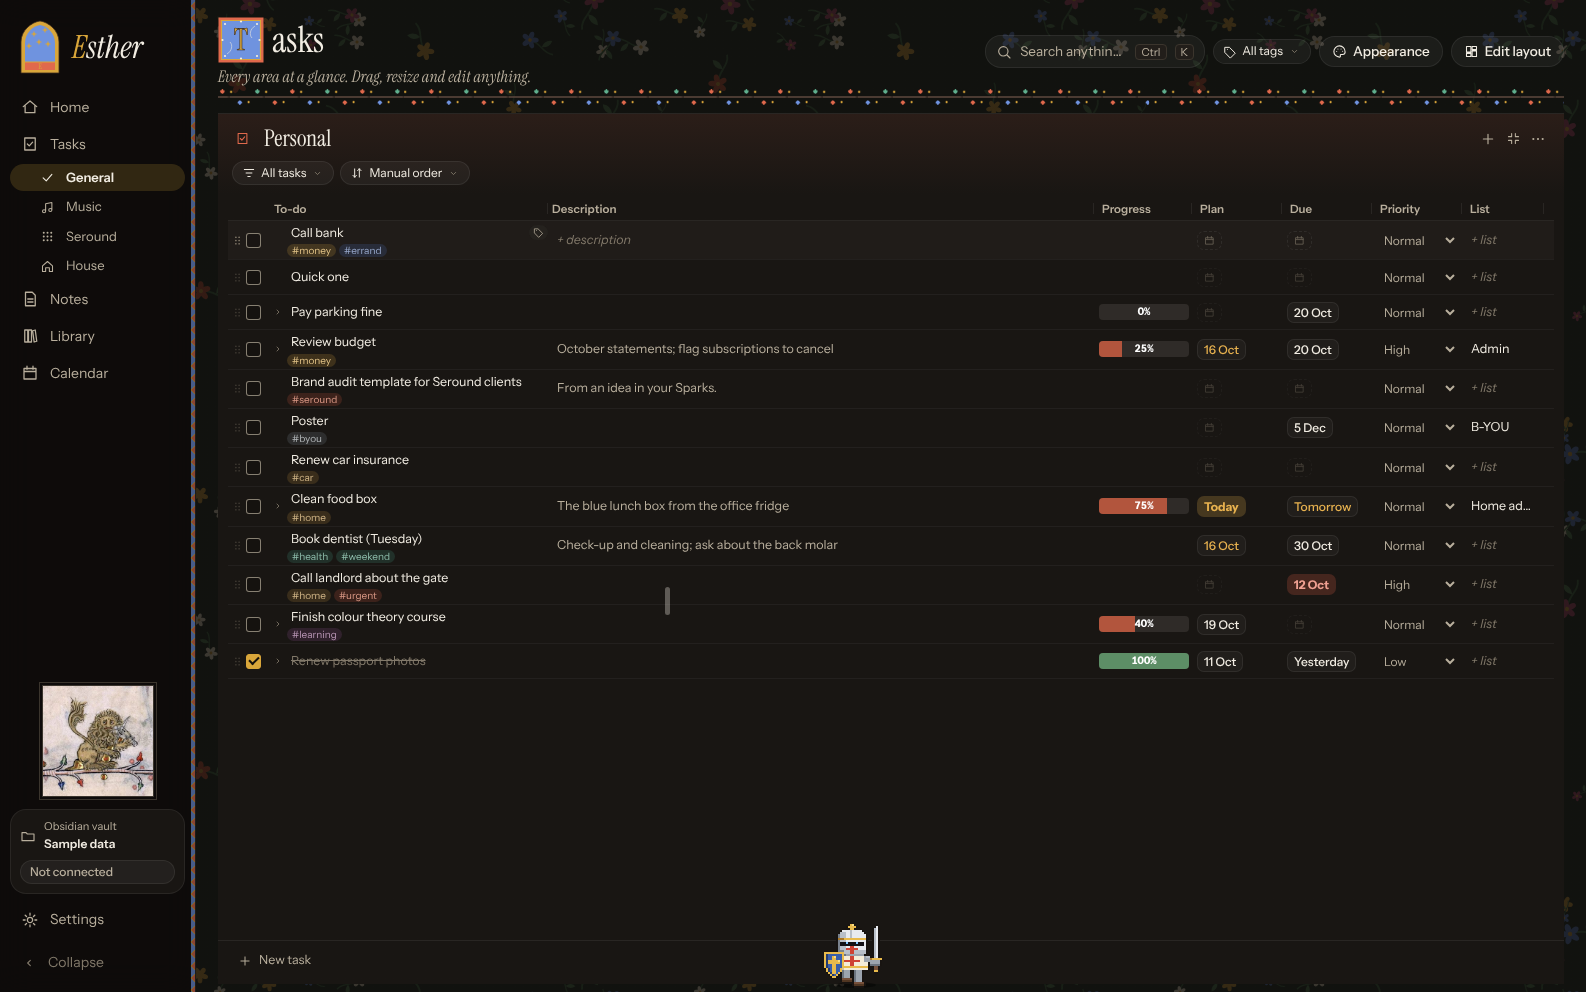
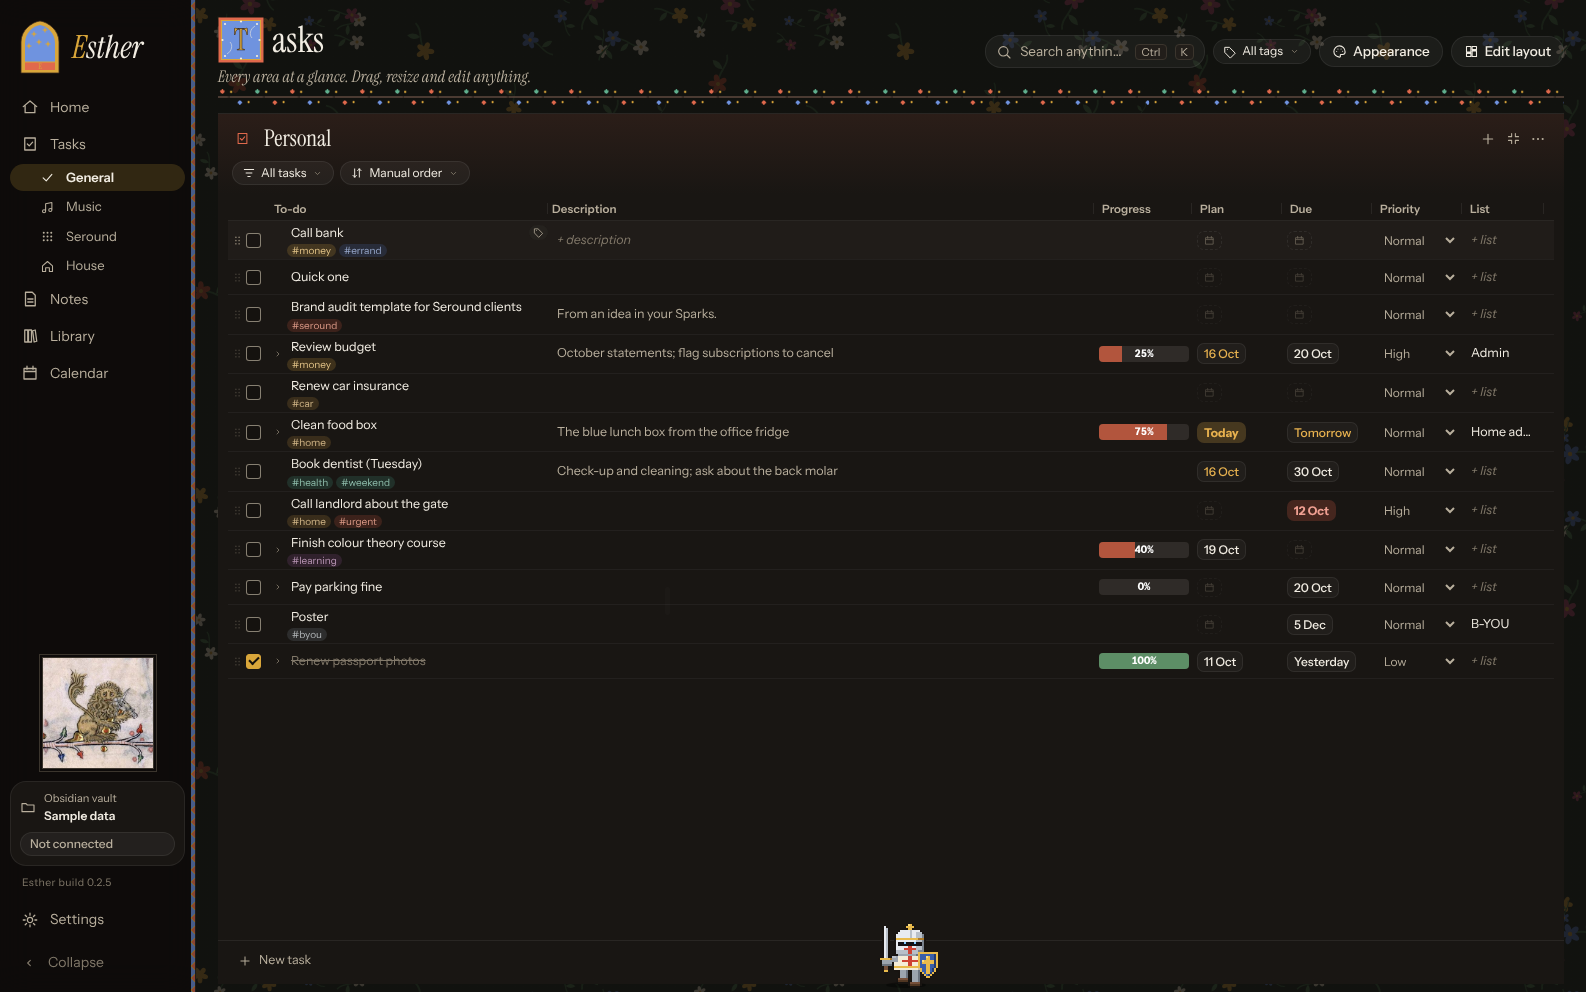
Esther build 0.2.6: the bar knows your music; dates fall into place
- Naming an artist or project puts the work on that project's stage (named or current);
  a stage outside your scope on a job is brought in, and the preview says so
- "friday this week", "this week", "this weekend" read as dates and leave the task name
- New dated tasks fall into place by date; panels gain a Smart order

Claude-Session: https://claude.ai/code/session_016WKLQPuGqaCrfQHNoqNZZi

diff --git a/frankk-app/src/lib/parse.ts b/frankk-app/src/lib/parse.ts
@@ -20,7 +20,21 @@ export interface Parsed {
   priority?: Priority;
   journal: boolean;
   explicit: boolean;
+  /** Music work that belongs to a project: added as an item on that project's stage. */
+  music?: { projectId: string; stageId: string; stage: string; artist: string; title: string; addsScope: boolean };
 }
+
+/** What the parser needs to know about your music projects. */
+export interface ProjectRef { id: string; artist: string; title: string; stages: { id: string; name: string; inScope: boolean; done: boolean; track?: string; items: { done: boolean }[] }[] }
+
+const MUSIC_CUE = /\b(?:music|studio|surftape|song|single|ep|album|beat|vocals?|mix(?:ing)?|master(?:ing)?|record(?:ing)?|produc(?:e|tion|ing)|lyrics?|track|session|demo)\b/i;
+// Which stage a word points at.
+const STAGE_WORDS: [RegExp, string][] = [
+  [/\b(?:record(?:ing)?|vocals?|tracking)\b/i, 'record'], [/\bmaster(?:ing)?\b/i, 'master'], [/\bmix(?:ing)?\b/i, 'mix'],
+  [/\b(?:produc(?:e|tion|ing)|beat|arrange(?:ment)?)\b/i, 'produc'], [/\blyrics?\b|\bwrit(?:e|ing)\b/i, 'lyric'],
+  [/\b(?:cover|artwork|art)\b/i, 'art'], [/\bconcept\b/i, 'concept'], [/\b(?:market(?:ing)?|promo)\b/i, 'market'], [/\b(?:mv|music video)\b/i, 'mv'],
+];
+const COMMON_WORDS = new Set(['just', 'me', 'you', 'will', 'may', 'june', 'art', 'sun']);
 
 const MONTHS = ['jan', 'feb', 'mar', 'apr', 'may', 'jun', 'jul', 'aug', 'sep', 'oct', 'nov', 'dec'];
 const MONTH_RE = '(jan(?:uary)?|feb(?:ruary)?|mar(?:ch)?|apr(?:il)?|may|june?|july?|aug(?:ust)?|sep(?:t(?:ember)?)?|oct(?:ober)?|nov(?:ember)?|dec(?:ember)?)';
@@ -53,7 +67,12 @@ export function findDate(text: string, today: ISODate): { date: ISODate; match: 
     [/\bin (\d+) weeks?\b/, (m) => addDays(today, 7 * +m[1])],
     [/\bnext week\b/, () => { const dow = (parseISO(today).getDay() + 6) % 7; return addDays(today, 7 - dow); }],
     [/\bend of (?:the )?month\b/, () => { const d = parseISO(today); return toISO(new Date(d.getFullYear(), d.getMonth() + 1, 0)); }],
-    [new RegExp(`\\b(?:next\\s+|this\\s+)?${DAY_RE}\\b`), (m) => {
+    [/\b(?:(?:by\s+)?(?:the\s+)?end of (?:the |this )?week|this week|this weekend)\b/, (m) => {
+      // "this week" means by Sunday; "this weekend" means Saturday.
+      const dow = parseISO(today).getDay();
+      return /weekend/.test(m[0]) ? addDays(today, (6 - dow + 7) % 7) : addDays(today, (7 - dow) % 7);
+    }],
+    [new RegExp(`\\b(?:next\\s+|this\\s+|on\\s+)?${DAY_RE}(?:\\s+(?:of\\s+)?this\\s+week)?\\b`), (m) => {
       // The coming one: "friday" on a Wednesday is in two days; on a Friday it's a week away.
       const want = DAYS.findIndex((d) => d.startsWith(m[1].slice(0, 3)));
       const n = (want - parseISO(today).getDay() + 7) % 7 || 7;
@@ -73,7 +92,7 @@ export function findDate(text: string, today: ISODate): { date: ISODate; match: 
 
 const esc = (s: string) => s.replace(/[.*+?^${}()|[\]\\]/g, '\\$&');
 
-export function parseCommand(input: string, today: ISODate, brands: string[] = []): Parsed {
+export function parseCommand(input: string, today: ISODate, brands: string[] = [], projects: ProjectRef[] = []): Parsed {
   const d = detectKind(input);
   let text = d.text;
   const kind = d.kind;
@@ -96,6 +115,31 @@ export function parseCommand(input: string, today: ISODate, brands: string[] = [
     if (cut(/\b(?:urgent(?:ly)?|asap|high priority|important)\b/i)) out.priority = 'high';
     else if (cut(/\b(?:low priority|someday|whenever)\b/i)) out.priority = 'low';
 
+    // Music: a project named by its artist or title (a name that is also an everyday word, like "Just", only counts
+    // when the sentence is clearly about music). The work becomes an item on the stage it names, else the current one.
+    const cue = MUSIC_CUE.test(text);
+    const named = projects.map((p) => {
+      for (const name of [p.artist, p.title]) {
+        if (!name) continue;
+        const re = new RegExp(`\\b${esc(name)}(?:'s)?\\b`, 'i');
+        const exact = new RegExp(`\\b${esc(name)}(?:'s)?\\b`);
+        if (re.test(text) && (!COMMON_WORDS.has(name.toLowerCase()) || cue || exact.test(text.replace(/^\s*\S/, '')))) return { p, name };
+      }
+      return null;
+    }).find(Boolean);
+    if (kind === 'task' && named) {
+      const st = named.p.stages.filter((x) => x.inScope);
+      const word = STAGE_WORDS.find(([re]) => re.test(text))?.[1];
+      // A named stage wins even when it's outside your scope on that job: saying you'll do it brings it in.
+      const stage = (word && named.p.stages.find((x) => x.name.toLowerCase().includes(word)))
+        || st.find((x) => x.track !== 'side' && !x.done && !(x.items.length && x.items.every((i) => i.done))) || st[0];
+      if (stage) {
+        out.music = { projectId: named.p.id, stageId: stage.id, stage: stage.name, artist: named.p.artist, title: named.p.title, addsScope: !stage.inScope };
+        text = text.replace(new RegExp(`\\b(?:for|with|of)?\\s*${esc(named.name)}(?:'s)?\\b`, 'i'), ' ');
+      }
+    }
+    if (cut(/\b(?:in|for|on)\s+(?:the\s+)?music\b|^\s*music\s*:?\s*/i) && !out.music) out.tags.push('music');
+
     // Where it belongs. B-YOU has no panel of its own yet, so its tasks go to General in a "B-YOU" list.
     if (cut(/\b(?:for|at|in)?\s*(?:b[\s-]?you|byou)\b(?:\s+office)?/i)) { out.list = 'B-YOU'; out.tags.push('byou'); }
     else {
@@ -112,11 +156,12 @@ export function parseCommand(input: string, today: ISODate, brands: string[] = [
       const before = text.slice(0, text.toLowerCase().indexOf(dt.match.toLowerCase()));
       const dueWord = /\b(?:due(?:\s+date)?|by|deadline|before|until)\s*(?:is|at|on|of|:)?\s*$/i;
       if (dueWord.test(before)) { out.due = dt.date; text = before.replace(dueWord, ' ') + text.slice(before.length + dt.match.length); }
-      else { out.plan = dt.date; text = text.replace(dt.match, ' ').replace(/\b(?:on|at|for)\s+$/i, ' '); }
+      else { out.plan = dt.date; text = text.replace(new RegExp(`\\b(?:on|at|for|this)?\\s*${esc(dt.match)}`, 'i'), ' '); }
     }
     text = text.replace(/\b(?:due(?:\s+date)?|deadline)\b\s*(?:is|at|on)?/gi, ' ');
     // Leading verbs that only introduce the work: "doing poster" → "Poster".
-    text = text.replace(/^\s*(?:doing|do|to|working on|work on|the)\s+/i, '');
+    text = text.replace(/^\s*(?:(?:doing|do|to|working on|work on|the)\s+)+/i, '');
+    text = text.replace(/\b(?:on|at|by)\s*$/i, '');
   }
 
   const title = text.replace(/\s+/g, ' ').replace(/\s+([,.;:])/g, '$1').replace(/^[\s,.;:-]+|[\s,.;:-]+$/g, '').trim();

diff --git a/frankk-app/src/components/CommandBar.tsx b/frankk-app/src/components/CommandBar.tsx
@@ -34,14 +34,17 @@ export function CommandBar() {
   const [chosen, setChosen] = useState<Kind | null>(null);
   const input = useRef<HTMLInputElement>(null);
   // Reads the sentence as you type; a kind picked on the pill wins unless the line starts with a prefix.
-  const p = parseCommand(text, today, data.brands);
+  const p = parseCommand(text, today, data.brands, data.projects);
   const kind = p.explicit ? p.kind : chosen ?? 'task';
   const info = KINDS.find((k) => k.id === kind)!;
 
   const AREA: Record<string, string> = { general: 'General', seround: 'Seround', house: 'House' };
   const where = p.list ? p.list : p.area === 'seround' ? `Seround · ${p.brand?.split(' ')[0] ?? ''}` : AREA[p.area];
   /** What Enter will do, shown under the bar before you press it. */
-  const preview: string[] = !text.trim() || ai ? [] : kind === 'task'
+  const m = kind === 'task' ? p.music : undefined;
+  const preview: string[] = !text.trim() || ai ? [] : m
+    ? [`“${p.title}”`, `${m.artist} · ${m.title}`, `${m.stage} stage`, m.addsScope ? `adds ${m.stage} to your scope` : '', p.due ?? p.plan ? `${p.due ? 'due' : 'on'} ${relLabel((p.due ?? p.plan)!, today)}` : '', '+ today’s journal'].filter(Boolean)
+    : kind === 'task'
     ? [`“${p.title}”`, where, p.due ? `due ${relLabel(p.due, today)}` : '', p.plan ? `on ${relLabel(p.plan, today)}` : '', p.priority === 'high' ? 'urgent' : p.priority === 'low' ? 'low priority' : '', p.tags.length ? p.tags.map((t) => `#${t}`).join(' ') : '', '+ today’s journal'].filter(Boolean)
     : [`“${p.title}”`, kind === 'idea' ? 'Ideas board' : 'today’s journal'];
 
@@ -54,7 +57,11 @@ export function CommandBar() {
       setText(''); setAi(false);
       return;
     }
-    if (kind === 'task') {
+    if (m) {
+      if (m.addsScope) dispatch({ type: 'stage/patch', projectId: m.projectId, stageId: m.stageId, patch: { inScope: true } });
+      dispatch({ type: 'item/add', projectId: m.projectId, stageId: m.stageId, text: body, date: p.due ?? p.plan });
+      journal('task', `${body} (${m.artist} · ${m.stage})${p.due ?? p.plan ? `, ${p.due ?? p.plan}` : ''}`);
+    } else if (kind === 'task') {
       dispatch({ type: 'task/add', title: body, area: p.area, extra: { tags: p.tags, mode: 'simple', due: p.due, plan: p.plan, priority: p.priority ?? 'normal', list: p.list, ...(p.area === 'seround' ? { brand: p.brand ?? data.brands[0] } : {}) } });
       journal('task', `${body}${p.list ? ` (${p.list})` : ''}${p.due ? `, due ${p.due}` : ''}`);
     } else if (kind === 'idea') {
@@ -62,7 +69,7 @@ export function CommandBar() {
       dispatch({ type: 'entry/add', entry: { id: newId('e'), typeId: 'idea', title: body, props: { status: 'Spark', captured: today }, tags: p.tags, created: now, updated: now, path: `Ideas/${body}.md` } });
       journal('idea', body);
     } else journal(kind, body);
-    say(kind === 'task' ? `Task added: ${preview.join(' · ')}.` : `Kept as ${info.label.toLowerCase()}${kind === 'idea' ? ' on your Ideas board' : ' in today’s journal'}.`, true);
+    say(m ? `Added to ${m.artist}’s ${m.stage} stage: ${preview.join(' · ')}.` : kind === 'task' ? `Task added: ${preview.join(' · ')}.` : `Kept as ${info.label.toLowerCase()}${kind === 'idea' ? ' on your Ideas board' : ' in today’s journal'}.`, true);
     setText(''); setChosen(null);
   };
 

diff --git a/frankk-app/src/data/reducer.ts b/frankk-app/src/data/reducer.ts
@@ -1,3 +1,4 @@
+import type { ISODate } from '../lib/dates';
 import { newId } from './fixtures';
 import { uniqueNotePath } from '../lib/obsidian';
 import { PIGMENTS, RELEASE_STEPS, type AppData, type MusicProject, type Stage, type StageItem, type Task } from './types';
@@ -39,7 +40,7 @@ export type Action =
   | { type: 'stage/patch'; projectId: string; stageId: string; patch: Partial<Stage> }
   | { type: 'stage/move'; projectId: string; stageId: string; dir: -1 | 1 }
   | { type: 'stage/add'; projectId: string; name: string; track?: 'main' | 'side' }
-  | { type: 'item/add'; projectId: string; stageId: string; text: string }
+  | { type: 'item/add'; projectId: string; stageId: string; text: string; date?: ISODate }
   | { type: 'item/patch'; projectId: string; stageId: string; itemId: string; patch: Partial<StageItem> }
   | { type: 'type/add'; def: TypeDef }
   | { type: 'type/update'; id: string; patch: Partial<Pick<TypeDef, 'name' | 'plural' | 'icon' | 'color' | 'folder'>> }
@@ -109,10 +110,16 @@ export function reducer(state: AppData, a: Action): AppData {
       };
       task.tags = [...new Set(task.tags.map(tagKey).filter(Boolean))];
       state = ensureTags(state, task.tags);
-      // New tasks go to the top of their area's manual order.
+      // A new task with a date falls into place among its area's open dated tasks: just before the first one that's
+      // later, or just after the last one. Undated tasks don't count. One without a date goes to the top, as before.
+      const when = (t: Task) => t.due ?? t.plan;
+      const mine = when(task);
       const firstOfArea = state.tasks.findIndex((t) => t.area === task.area);
+      const dated = state.tasks.map((t, i) => ({ t, i })).filter(({ t }) => t.area === task.area && !t.done && when(t));
+      const later = dated.find(({ t }) => when(t)! > mine!);
       const tasks = [...state.tasks];
-      tasks.splice(firstOfArea < 0 ? tasks.length : firstOfArea, 0, task);
+      const at = !mine || !dated.length ? firstOfArea : later ? later.i : dated[dated.length - 1].i + 1;
+      tasks.splice(at < 0 ? tasks.length : at, 0, task);
       return { ...state, tasks };
     }
     case 'task/update':
@@ -388,7 +395,7 @@ export function reducer(state: AppData, a: Action): AppData {
     case 'item/add': {
       const text = a.text.trim();
       if (!text) return state;
-      return mapStage(state, a.projectId, a.stageId, (st) => ({ ...st, done: false, items: [...st.items, { id: newId('it'), text, done: false }] }));
+      return mapStage(state, a.projectId, a.stageId, (st) => ({ ...st, done: false, items: [...st.items, { id: newId('it'), text, done: false, ...(a.date ? { date: a.date } : {}) }] }));
     }
     case 'item/patch':
       return mapStage(state, a.projectId, a.stageId, (st) => ({ ...st, items: st.items.map((i) => (i.id === a.itemId ? { ...i, ...a.patch } : i)) }));

diff --git a/frankk-app/src/lib/tasks.ts b/frankk-app/src/lib/tasks.ts
@@ -2,14 +2,14 @@ import { diffDays, type ISODate } from './dates';
 import type { Task } from '../data/types';
 
 export type Filter = 'all' | 'open' | 'today' | 'overdue' | 'done';
-export type SortKey = 'manual' | 'due' | 'plan' | 'title' | 'priority' | 'progress' | 'list' | 'workstream';
+export type SortKey = 'manual' | 'smart' | 'due' | 'plan' | 'title' | 'priority' | 'progress' | 'list' | 'workstream';
 
 export const FILTERS: { id: Filter; label: string }[] = [
   { id: 'all', label: 'All tasks' }, { id: 'open', label: 'Open' }, { id: 'today', label: 'Today' },
   { id: 'overdue', label: 'Overdue' }, { id: 'done', label: 'Completed' },
 ];
 export const SORTS: { id: SortKey; label: string }[] = [
-  { id: 'manual', label: 'Manual order' }, { id: 'due', label: 'Due date' }, { id: 'plan', label: 'Task date' },
+  { id: 'manual', label: 'Manual order' }, { id: 'smart', label: 'Smart: late, then soonest' }, { id: 'due', label: 'Due date' }, { id: 'plan', label: 'Task date' },
   { id: 'title', label: 'Title' }, { id: 'priority', label: 'Priority' }, { id: 'progress', label: 'Progress' },
 ];
 
@@ -36,6 +36,11 @@ const progressOf = (t: Task) => (t.mode === 'simple' || !t.steps.length ? (t.don
 /** Sort tasks. Completed tasks always stay at the bottom; empty values sort last in either direction. */
 export function applySort(tasks: Task[], key: SortKey, dir: SortDir = 'asc'): Task[] {
   if (key === 'manual') return tasks;
+  // Smart: late first, then by the nearest date (deadline, else task date), high priority first; undated last.
+  if (key === 'smart') {
+    const when = (t: Task) => t.due ?? t.plan ?? '9999-99-99';
+    return [...tasks].sort((a, b) => Number(a.done) - Number(b.done) || when(a).localeCompare(when(b)) || PRIO[a.priority] - PRIO[b.priority]);
+  }
   const val = (t: Task): string | number | undefined => {
     switch (key) {
       case 'due': return t.due; case 'plan': return t.plan; case 'title': return t.title.toLowerCase();

diff --git a/frankk-app/src/home.test.ts b/frankk-app/src/home.test.ts
@@ -99,3 +99,28 @@ describe('reading a sentence in the bar', () => {
     expect(parseCommand('j: quiet morning', TODAY)).toMatchObject({ kind: 'journal', title: 'quiet morning' });
   });
 });
+
+describe('music in the bar, and placing new tasks', () => {
+  const projects = () => buildFixtures(TODAY).projects;
+  it('"record just vocal" is an item on Just’s Record stage, dated Friday, with no "this week" left over', () => {
+    const p = parseCommand('In music to record just vocal on friday this week', TODAY, [], projects());
+    const just = projects().find((x) => x.artist === 'Just')!;
+    expect(p.music?.projectId).toBe(just.id);
+    expect(p.music?.stage.toLowerCase()).toContain('record');
+    expect(p.music?.addsScope).toBe(true); // Record was outside your producer scope on Just's job
+    expect(p.plan).toBe('2026-10-16');
+    expect(p.title).toBe('Record vocal');
+  });
+  it('"just" as an ordinary word does not pick the artist', () => {
+    expect(parseCommand('just call the bank tomorrow', TODAY, [], projects()).music).toBeUndefined();
+  });
+  it('music with no project becomes a task tagged #music', () => {
+    const p = parseCommand('in music to sort sample folders', TODAY, [], projects());
+    expect(p.music).toBeUndefined();
+    expect(p.tags).toContain('music');
+    expect(p.title).toBe('Sort sample folders');
+  });
+  it('"this week" alone means by Sunday', () => {
+    expect(parseCommand('renew passport this week', TODAY).plan ?? parseCommand('renew passport this week', TODAY).due).toBe('2026-10-18');
+  });
+});

diff --git a/frankk-app/README.md b/frankk-app/README.md
@@ -1,4 +1,4 @@
-# Esther — build 0.2.5 (prototype)
+# Esther — build 0.2.6 (prototype)
 
 An interactive, **fixture-only** prototype of Esther, the life control panel (React + TypeScript + Vite).
 It never reads or writes your Obsidian vault. All records are sample data kept in this browser's `localStorage`.
@@ -79,3 +79,8 @@ The morning check. Home is built around what Frankk asked for: today's mood, wha
 - **Task details** as a property sheet; the Tasks board panels are compact summaries of their pages; table headers sit above their scrolling rows; overlay scrollbars can be dragged.
 - Life brief of Frankk's answers: `docs/LIFE-BRIEF.md`.
 - Still sample data only: no vault, phone, calendar or AI connection yet.
+
+## Build 0.2.6
+- The bar knows your music: name an artist or project ("record Just vocal") and the work becomes an item on that project's stage, Record, Mix and so on, or the current stage when none is named. Saying you'll do a stage that was outside your scope on a job brings it into scope, and the preview says so. Music without a project becomes a task tagged #music.
+- "friday this week", "this week" (by Sunday) and "this weekend" are read as dates and taken out of the task name.
+- New dated tasks fall into place by date among their area's tasks instead of landing on top. Task panels also have a "Smart: late, then soonest" order.
